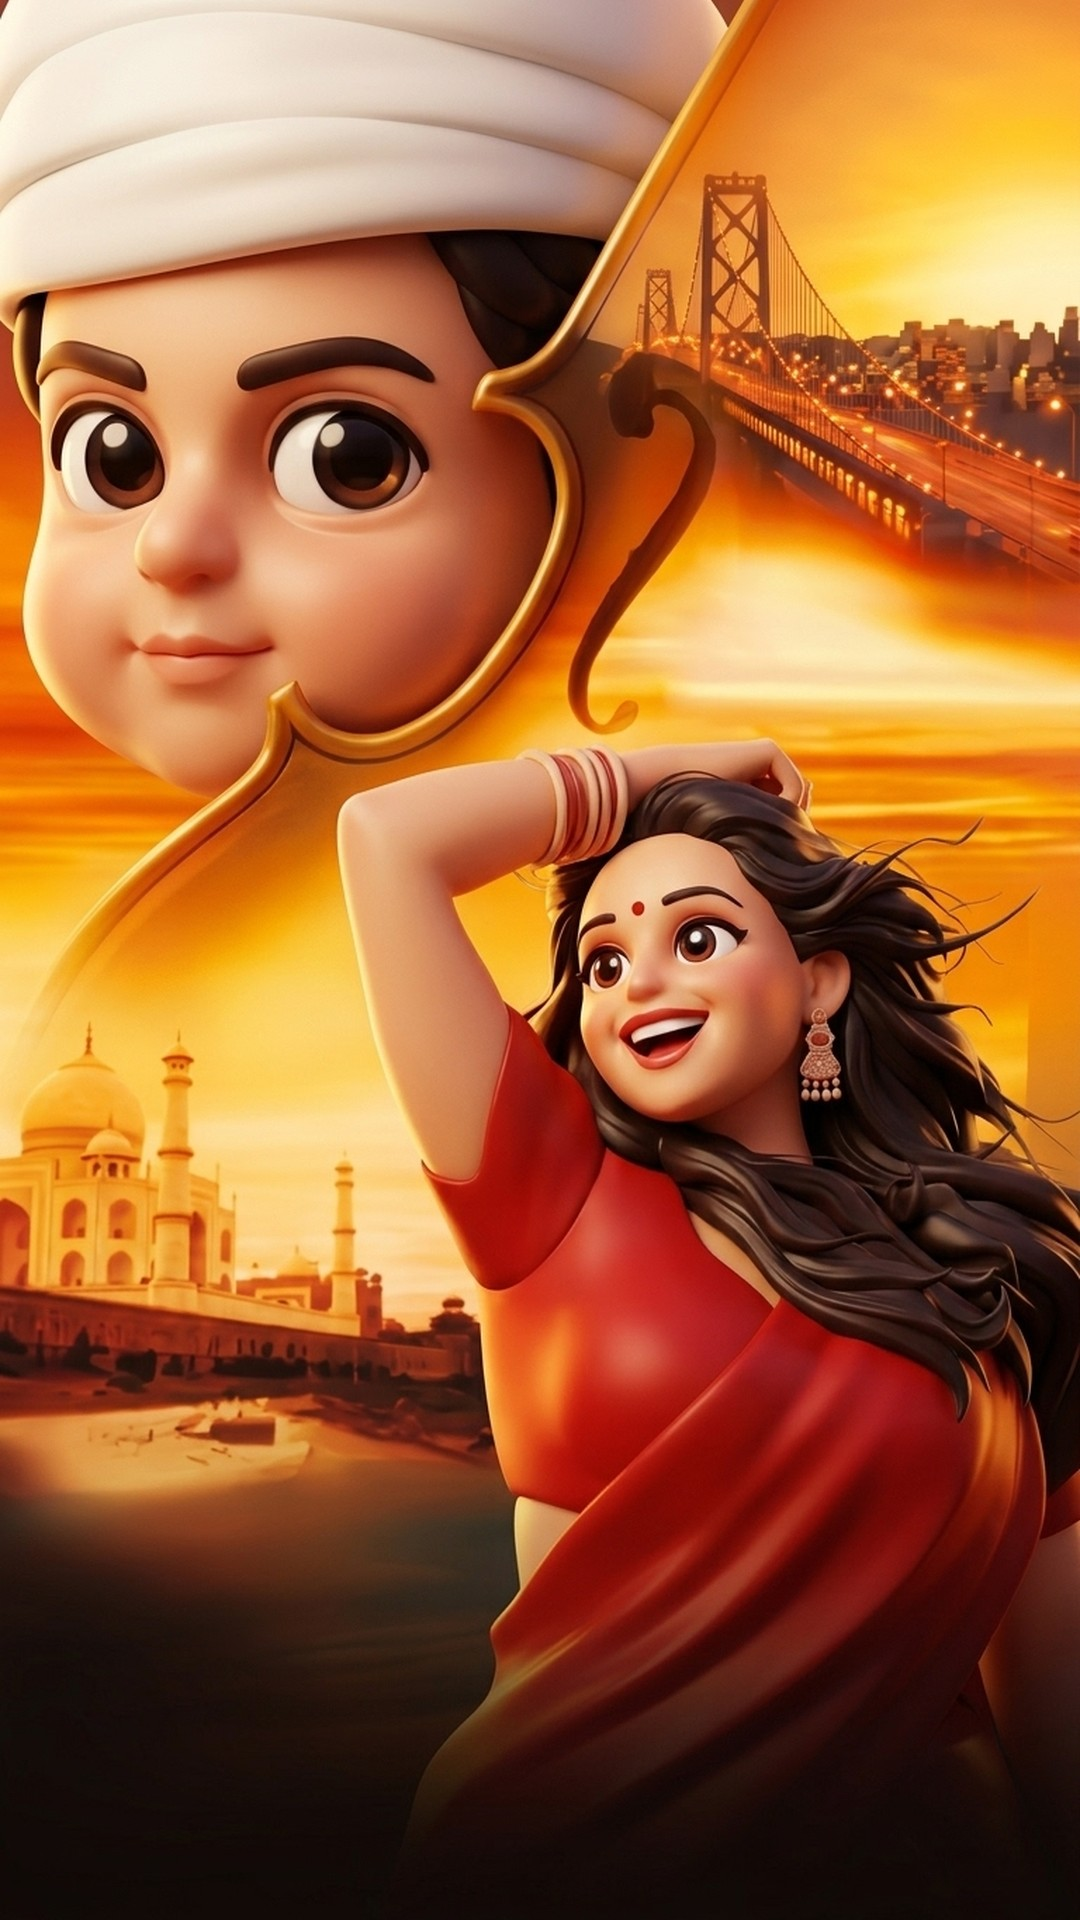
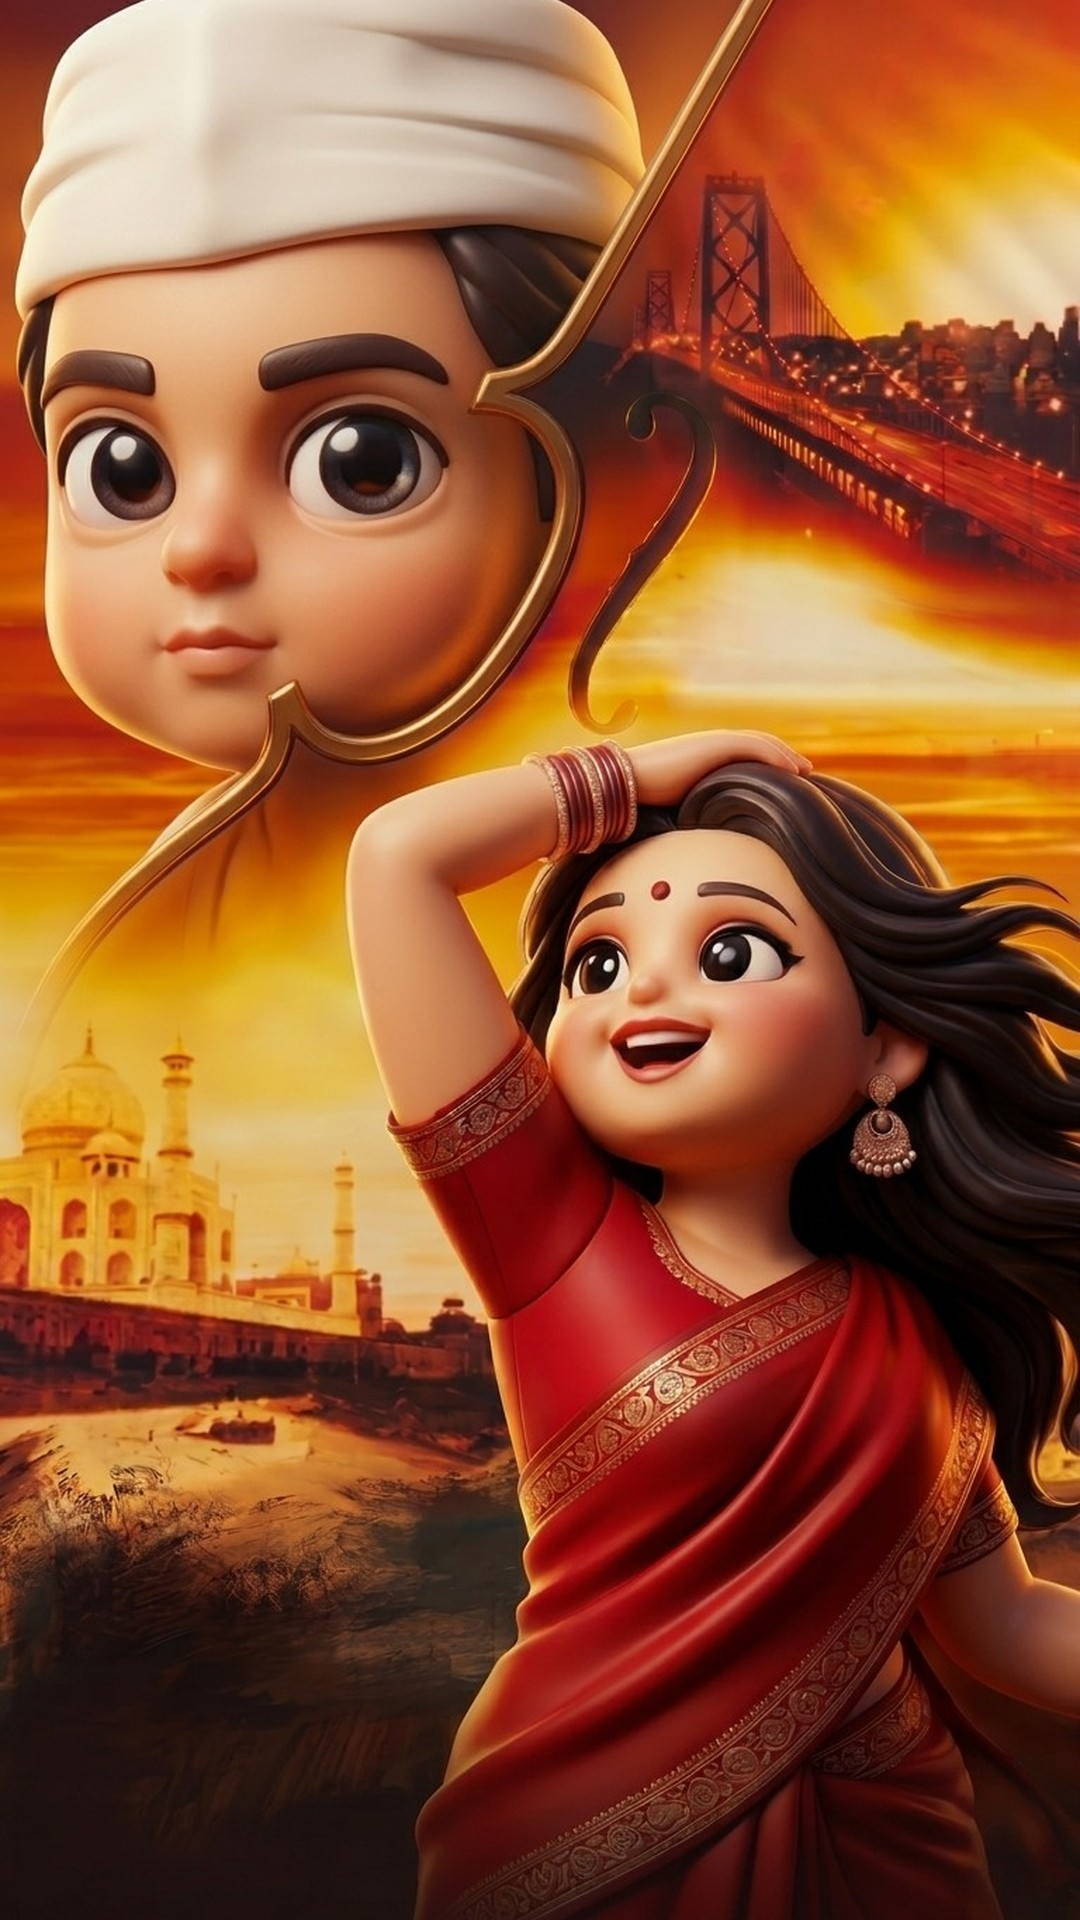
Fix: restore 27 Oct Funko KING (118 + card) and corrected Chibi Pardes; prayer-hands Funko goes to 119 Title Reveal

diff --git a/CLAUDE.md b/CLAUDE.md
@@ -154,7 +154,7 @@ Verify live before calling anything live: tools/v2-live-e2e.mjs and tools/releas
 
 ## Funko + Chibi finals (owner, 28 Oct 2026: 'upload the correct ones')
 - Strict Funko standard = Desktop/KING_MOVIE/00000_POSTERS_FINAL/00_REDO_27Oct2026/6_Funko_115_to_fix/FLOW_STEP1_create_template.txt (rounded-square head, no chin/neck, black eyes, no mouth, head as tall as the body). Only posters that pass it count as final; 'kept old render' is NOT final.
-- Live: 31 strict Funko posters (001 003 004 006 007 008 010 011 014 015 017 019 020 021 022 024 025 026 028 033 037 038 039 040 042 048 051 055 060 088 118, from FUNKO_MASTER_Oct28/00_COMPLETE_SET) and 68 Chibi finals (0_FINAL_Posters_ChibiPop_Oct27). Resized 768x1376 -> 1080x1920 (cover crop); faces.json boxes re-detected (Apple Vision, old boxes snapped; Funko 001 010 020 042 118 by eye). styles/king/funko.jpg = new Funko 118 (27 Oct poster) + KING logo.
+- Live: 31 strict Funko posters (001 003 004 006 007 008 010 011 014 015 017 019 020 021 022 024 025 026 028 033 037 038 039 040 042 048 051 055 060 088 + 119 Title Reveal, from FUNKO_MASTER_Oct28/00_COMPLETE_SET) and 67 Chibi finals (0_FINAL_Posters_ChibiPop_Oct27; 036 Pardes kept as the corrected render of 26 Oct, #223). Resized 768x1376 -> 1080x1920 (cover crop); faces.json boxes re-detected (Apple Vision, old boxes snapped; Funko 001 010 020 042 118 by eye). 118 and styles/king/funko.jpg stay the 27 Oct fire-tunnel Funko; the prayer-hands Funko is 119 (Title Reveal), NOT 118.
 - The other Funko/Chibi films still show the older renders until the owner re-renders them in Flow: Funko list in FUNKO_MASTER_Oct28/04_NG_TO_RENDER (85 films), Chibi in 'Chibi Pending' (50).
 
 ## LEGO style (owner, 26 Oct 2026)
